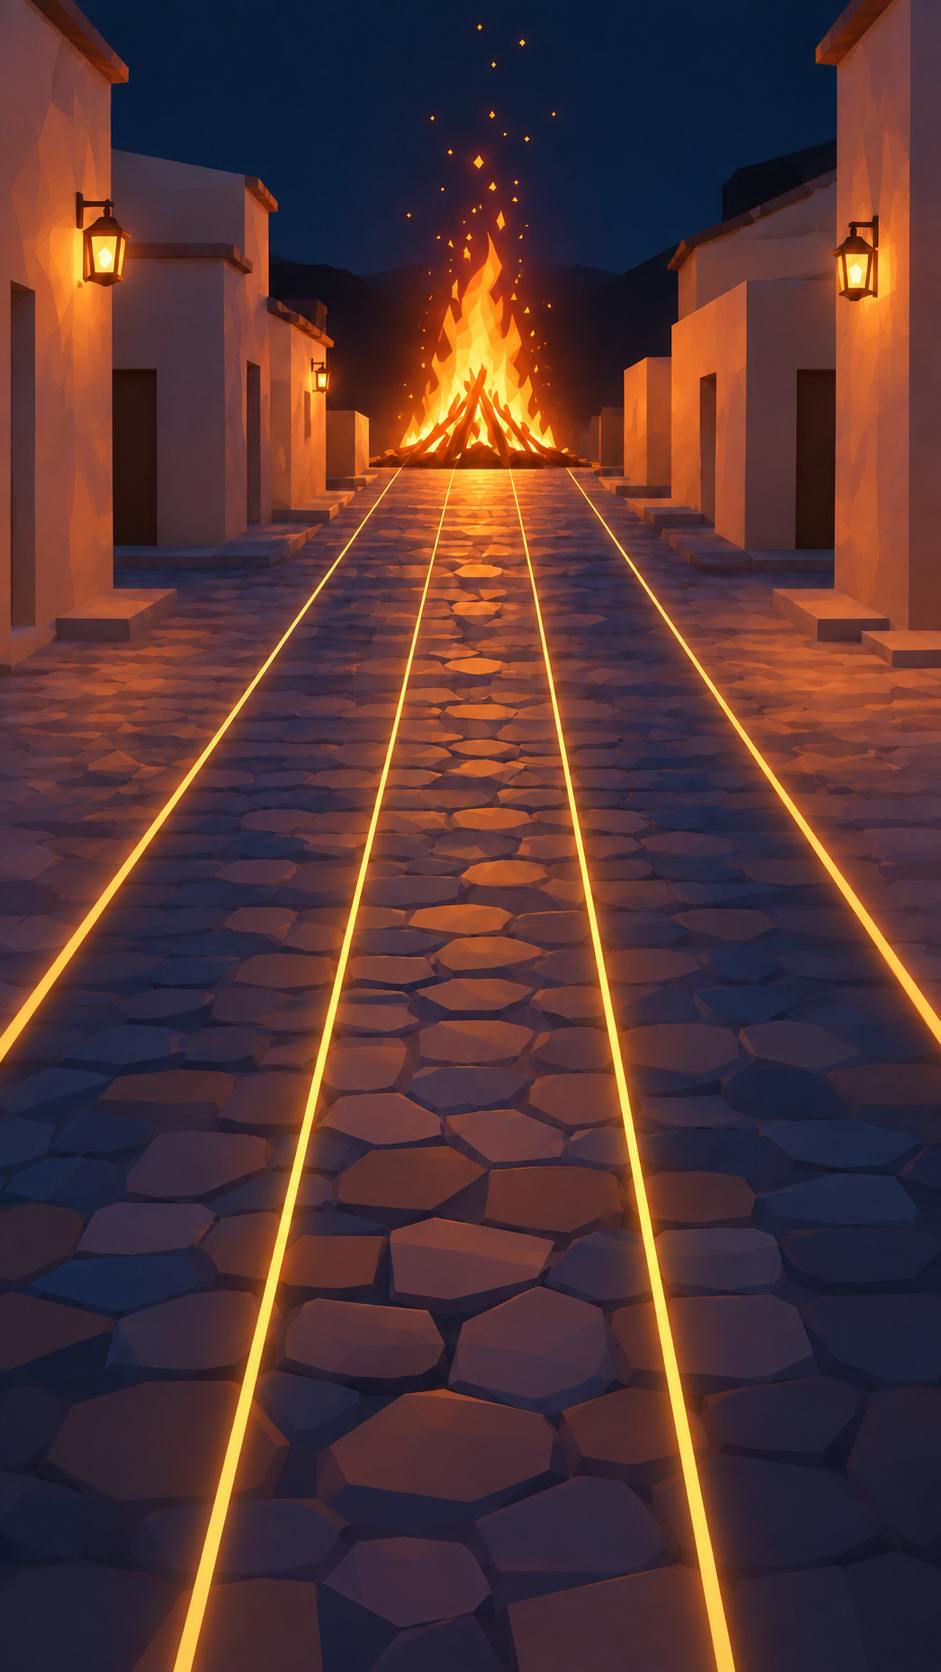
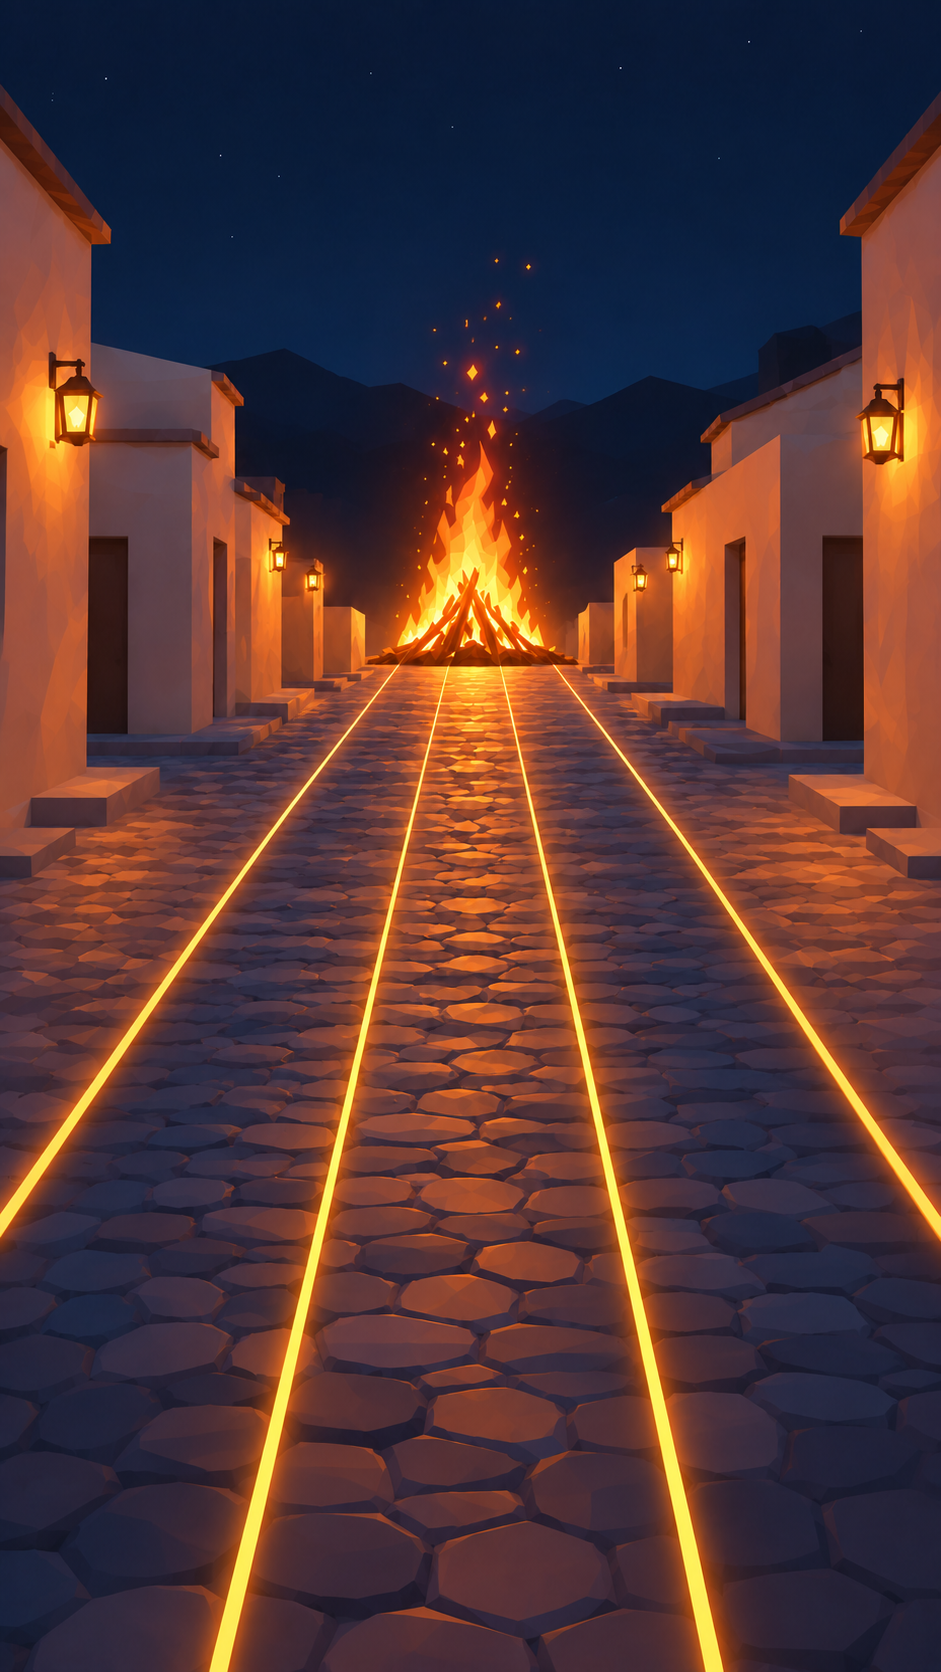
Play background: Daniele's taller street picture
The lanes follow the new picture's four glowing lines (re-measured), with the horizon, the road's
far end, the fire, the lanterns and the portrait frames moved to match. The picture now needs
only a small stretch below the fire (about 13% on a 720x1440 phone) to keep outer notes on
screen at the hit line.

Claude-Session: https://claude.ai/code/session_01MEVcaXhkfESzetw3bREgwY

diff --git a/tools/art/street/cut_figures.py b/tools/art/street/cut_figures.py
@@ -69,5 +69,5 @@ for name, (src, box, tol) in CUTS.items():
     img = cut(src, box, tol)
     img.save(os.path.join(OUT, name + ".png"))
     print(name, img.size)
-Image.open(os.path.join(SRC, "street_empty.png")).convert("RGB").save(os.path.join(OUT, "street.png"))
+Image.open(os.path.join(SRC, "street_tall.png")).convert("RGB").save(os.path.join(OUT, "street.png"))
 print("street copied")
